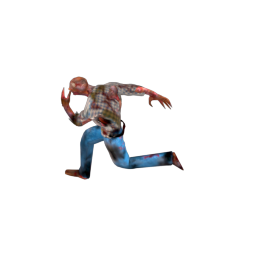
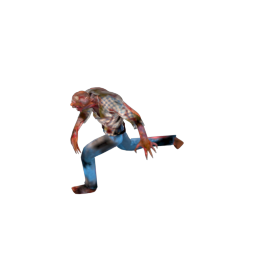
fix/asset-change

Changed region(s): [[0.2188, 0.2812, 0.7188, 0.7812]]

diff --git a/src/components/DefenseGameSession.jsx b/src/components/DefenseGameSession.jsx
@@ -19,7 +19,7 @@ const ANIMATION_SPEED = 3; // Updates per game loop (Lower = Faster)
 // Generate the paths for the 20 frames
 const ZOMBIE_FRAMES = Array.from({ length: FRAME_COUNT }, (_, i) => {
   const num = (i + 1).toString().padStart(4, '0'); // 0001, 0002...
-  return `/game_objects/zombies/run/Run_Body_270_${num}.png`;
+  return `/game_objects/zombies/skin_1/Run_Body_270_${num}.png`;
 });
 // const ZOMBIE_FRAMES = Array.from({ length: FRAME_COUNT }, (_, i) => {
 //   const num = (i + 1).toString().padStart(4, '0'); // 0001, 0002...
